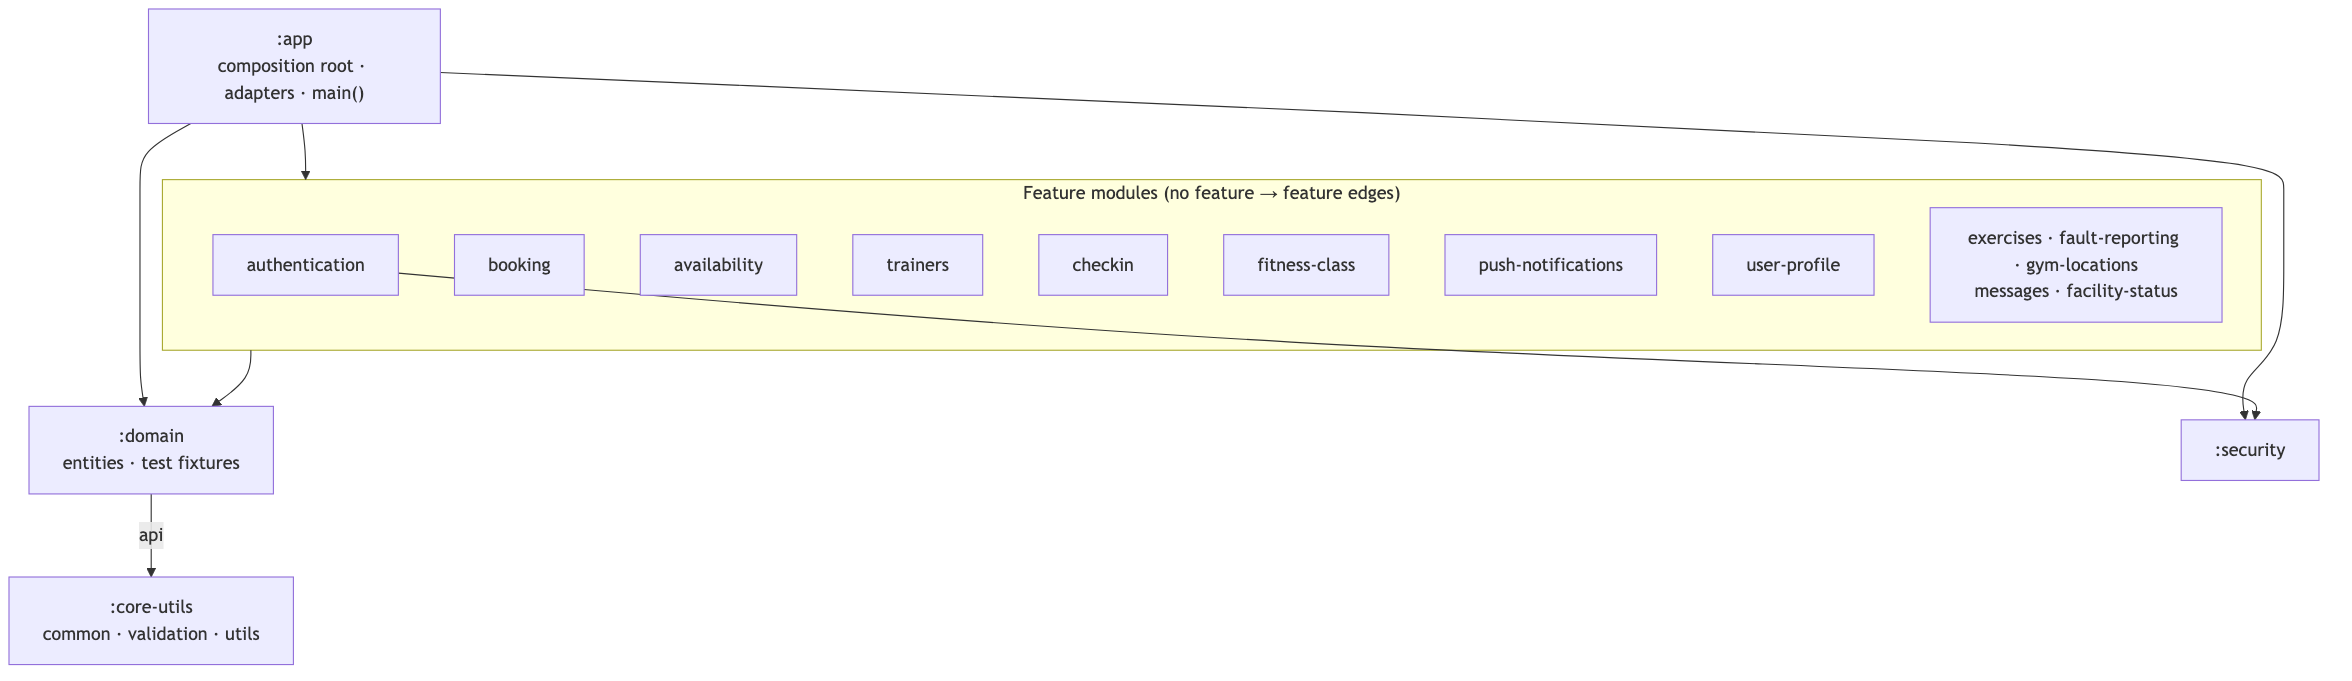
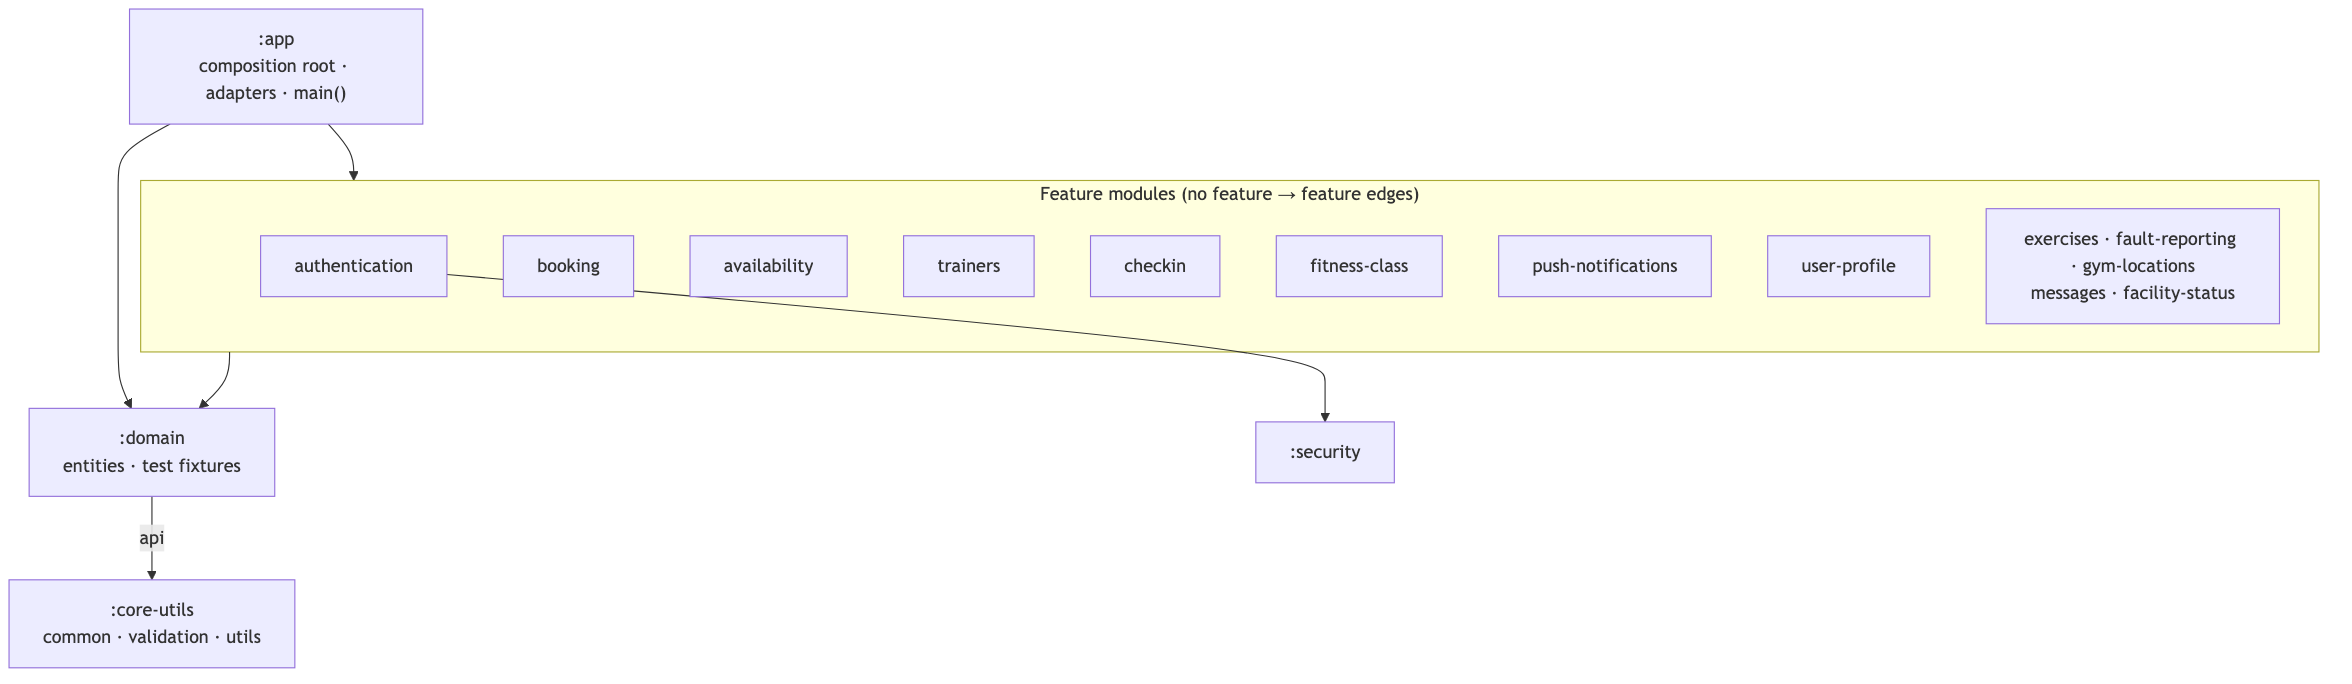
- Remove :security dependency in :app module (#28)
* - Remove :security dependency in :app module

* * Move SecurityConfigTests to :security module with test controller

diff --git a/security/src/test/kotlin/com/ianarbuckle/gymplannerservice/security/SecurityConfigTests.kt b/security/src/test/kotlin/com/ianarbuckle/gymplannerservice/security/SecurityConfigTests.kt
@@ -1,16 +1,6 @@
-package com.ianarbuckle.gymplannerservice.authentication.security
+package com.ianarbuckle.gymplannerservice.security
 
 import com.google.common.truth.Truth.assertThat
-import com.ianarbuckle.gymplannerservice.authentication.AuthenticationController
-import com.ianarbuckle.gymplannerservice.authentication.ERole
-import com.ianarbuckle.gymplannerservice.authentication.data.domain.MessageResponse
-import com.ianarbuckle.gymplannerservice.authentication.data.domain.SignUpRequest
-import com.ianarbuckle.gymplannerservice.authentication.data.service.AuthenticationService
-import com.ianarbuckle.gymplannerservice.facilityStatus.FacilityStatusController
-import com.ianarbuckle.gymplannerservice.facilityStatus.FacilityStatusService
-import com.ianarbuckle.gymplannerservice.security.JWTAuthenticationManager
-import com.ianarbuckle.gymplannerservice.security.JwtServerAuthenticationConverter
-import com.ianarbuckle.gymplannerservice.security.SecurityConfig
 import kotlinx.coroutines.test.runTest
 import org.junit.jupiter.api.extension.ExtendWith
 import org.mockito.ArgumentMatchers
@@ -20,7 +10,6 @@ import org.springframework.boot.webflux.test.autoconfigure.WebFluxTest
 import org.springframework.context.annotation.Import
 import org.springframework.http.HttpHeaders
 import org.springframework.http.HttpMethod
-import org.springframework.http.MediaType
 import org.springframework.mock.http.server.reactive.MockServerHttpRequest
 import org.springframework.mock.web.server.MockServerWebExchange
 import org.springframework.security.authentication.UsernamePasswordAuthenticationToken
@@ -36,20 +25,12 @@ import reactor.core.publisher.Mono
 import kotlin.test.Test
 
 @ExtendWith(SpringExtension::class)
-@WebFluxTest(
-    controllers = [AuthenticationController::class, FacilityStatusController::class],
-)
+@WebFluxTest(controllers = [TestSecuredController::class])
 @Import(SecurityConfig::class, JwtServerAuthenticationConverter::class)
 @TestPropertySource("classpath:application-test.properties")
 @ActiveProfiles("test")
 class SecurityConfigTests {
     @Autowired private lateinit var webTestClient: WebTestClient
-
-    @MockitoBean private lateinit var authenticationService: AuthenticationService
-
-    @Suppress("UnusedPrivateProperty")
-    @MockitoBean
-    private lateinit var facilityStatusService: FacilityStatusService
 
     @MockitoBean private lateinit var jwtAuthenticationManager: JWTAuthenticationManager
 
@@ -62,23 +43,9 @@ class SecurityConfigTests {
     @Test
     fun `auth endpoints should be accessible without token`() =
         runTest {
-            val signUpRequest =
-                SignUpRequest(
-                    username = "newuser",
-                    firstName = "New",
-                    surname = "User",
-                    email = "newuser@mail.com",
-                    password = "password123",
-                    roles = setOf("user"),
-                )
-            `when`(authenticationService.createUser(signUpRequest))
-                .thenReturn(MessageResponse(message = "User registered successfully!"))
-
             webTestClient
                 .post()
                 .uri("/api/v1/auth/register")
-                .contentType(MediaType.APPLICATION_JSON)
-                .bodyValue(signUpRequest)
                 .exchange()
                 .expectStatus()
                 .isOk
@@ -99,7 +66,7 @@ class SecurityConfigTests {
     fun `users with ROLE_USER should be forbidden from facilities`() =
         runTest {
             `when`(jwtAuthenticationManager.authenticate(anyAuthentication()))
-                .thenReturn(authenticationFor(ERole.ROLE_USER))
+                .thenReturn(authenticationFor("ROLE_USER"))
 
             webTestClient
                 .get()
@@ -114,7 +81,7 @@ class SecurityConfigTests {
     fun `users with ROLE_ADMIN should be allowed on facilities`() =
         runTest {
             `when`(jwtAuthenticationManager.authenticate(anyAuthentication()))
-                .thenReturn(authenticationFor(ERole.ROLE_ADMIN))
+                .thenReturn(authenticationFor("ROLE_ADMIN"))
 
             webTestClient
                 .get()
@@ -125,12 +92,12 @@ class SecurityConfigTests {
                 .isOk
         }
 
-    private fun authenticationFor(role: ERole): Mono<Authentication> =
+    private fun authenticationFor(authority: String): Mono<Authentication> =
         Mono.just(
             UsernamePasswordAuthenticationToken(
                 "user",
                 "password",
-                listOf(SimpleGrantedAuthority(role.name)),
+                listOf(SimpleGrantedAuthority(authority)),
             ),
         )
 

diff --git a/security/src/test/kotlin/com/ianarbuckle/gymplannerservice/security/TestSecuredController.kt b/security/src/test/kotlin/com/ianarbuckle/gymplannerservice/security/TestSecuredController.kt
@@ -1,0 +1,22 @@
+package com.ianarbuckle.gymplannerservice.security
+
+import org.springframework.web.bind.annotation.GetMapping
+import org.springframework.web.bind.annotation.PostMapping
+import org.springframework.web.bind.annotation.RestController
+
+/**
+ * Minimal controller used only by [SecurityConfigTests] to exercise the security
+ * filter chain in isolation. It exposes one public auth route and one route under
+ * `/api/v1/facilities`, whose path matches the ADMIN/MODERATOR rule in
+ * [SecurityConfig] — so the module can be tested without depending on any feature
+ * module's real controllers.
+ */
+@RestController
+@Suppress("FunctionOnlyReturningConstant")
+class TestSecuredController {
+    @PostMapping("/api/v1/auth/register")
+    suspend fun register(): String = "registered"
+
+    @GetMapping("/api/v1/facilities")
+    suspend fun facilities(): String = "facilities"
+}

diff --git a/security/src/test/kotlin/com/ianarbuckle/gymplannerservice/SecurityTestApplication.kt b/security/src/test/kotlin/com/ianarbuckle/gymplannerservice/SecurityTestApplication.kt
@@ -1,0 +1,11 @@
+package com.ianarbuckle.gymplannerservice
+
+import org.springframework.boot.autoconfigure.SpringBootApplication
+
+/**
+ * Anchors this module's Spring slice tests (@WebFluxTest). The real
+ * @SpringBootApplication lives in :app, which :security does not depend on; placing
+ * this at the base package lets @WebFluxTest find a @SpringBootConfiguration.
+ */
+@SpringBootApplication
+class SecurityTestApplication

diff --git a/docs/architecture.md b/docs/architecture.md
@@ -10,6 +10,10 @@ together at runtime via Spring component scanning.
 
 ## Module layering
 
+`:app` depends on every feature module plus `:domain`; `:security` is not a direct
+`:app` dependency — it is pulled in transitively through `:authentication`, which is
+the only module that uses it.
+
 ```mermaid
 flowchart TD
     app[":app<br/>composition root · adapters · main()"]
@@ -35,7 +39,6 @@ flowchart TD
     app --> domain
     features --> domain
     domain -->|api| coreutils
-    app --> security
     authentication --> security
 ```
 
